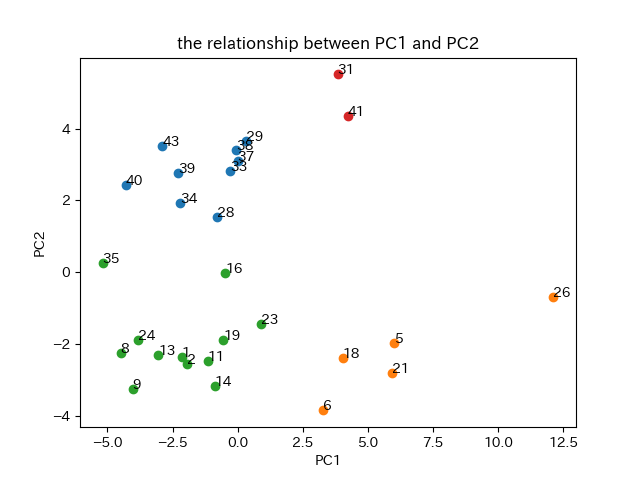
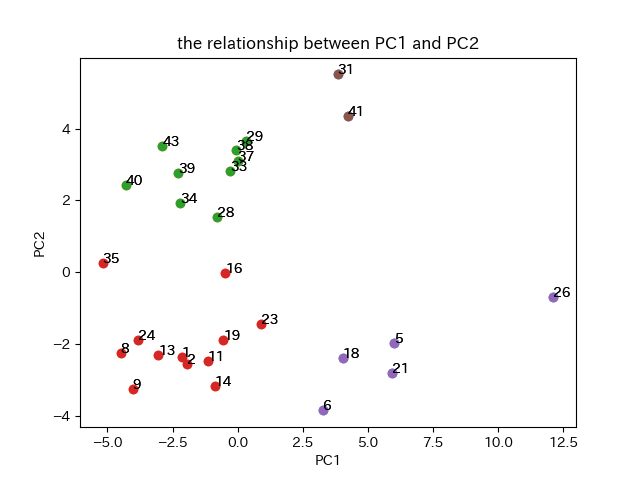
なんか色付けが安定しない クラスタリングはできてる

diff --git a/class.py b/class.py
@@ -11,9 +11,12 @@ import bar_plot
 import tempfile
 
 # gui(どの主成分を使うかを2つのプルダウンメニューとかで指定　クラスタ数も指定 -> GO!)
-def gui(score:list[str]):
+def gui(score:pd.DataFrame, df:pd.DataFrame):
+    #コンボボックス用リスト
+    pc_name = score.columns.tolist()
+
     # ウィンドウレイアウト
-    layout = [[sg.Text("横軸"), sg.Combo(score, key="-x-"), sg.Text("   "), sg.Text("縦軸"), sg.Combo(score, key="-y-")],
+    layout = [[sg.Text("横軸"), sg.Combo(pc_name, key="-x-"), sg.Text("   "), sg.Text("縦軸"), sg.Combo(pc_name, key="-y-"), sg.Text("   "), sg.Text("クラスタ数"), sg.Input(key="-cluster-")],
               [sg.Image(filename="", key="-image-")],
               [sg.Button("Run")]]
     
@@ -28,18 +31,26 @@ def gui(score:list[str]):
         if event == sg.WIN_CLOSED:
             break
 
+        # 画像更新
+        if event == "Run":
+            # 画像作成
+            k_means(df, score, values["-x-"], values["-y-"], int(values["-cluster-"]))
+
 
 
 
 # K-means 
 def k_means(df:pd.DataFrame, score:pd.DataFrame, pc1:str, pc2:str, n:int):
+    print(f" *****pc1:{pc1} pc2:{pc2} cluster:{n}***** ")
+    
     # 街路番号抽出してscoreのインデックスへ
     load_num = df.index
-    #load_num = load_num.tolist()
+
+    # load_num = load_num.tolist()
     score.index = load_num
 
     # Kmeansインスタンス作成
-    kmeans = KMeans(n_clusters=n, max_iter=30)
+    kmeans = KMeans(n_clusters=n, max_iter=300)
     
     # モデルを学習 -> クラスタリング
     class_label = kmeans.fit_predict(score[[pc1, pc2]])
@@ -47,7 +58,7 @@ def k_means(df:pd.DataFrame, score:pd.DataFrame, pc1:str, pc2:str, n:int):
     # クラスcolumns作成
     score["class"] = class_label
 
-    #print(score)
+    print(score["class"])
 
     # グラフ作成
     plt.xlabel(pc1)
@@ -73,7 +84,7 @@ def main():
     n = 8
     (score, eigenvalue, ratio, eigen, v_name) = bar_plot.pca(df, n)
 
-    gui(score.columns.tolist())
+    gui(score, df)
 
     
 
